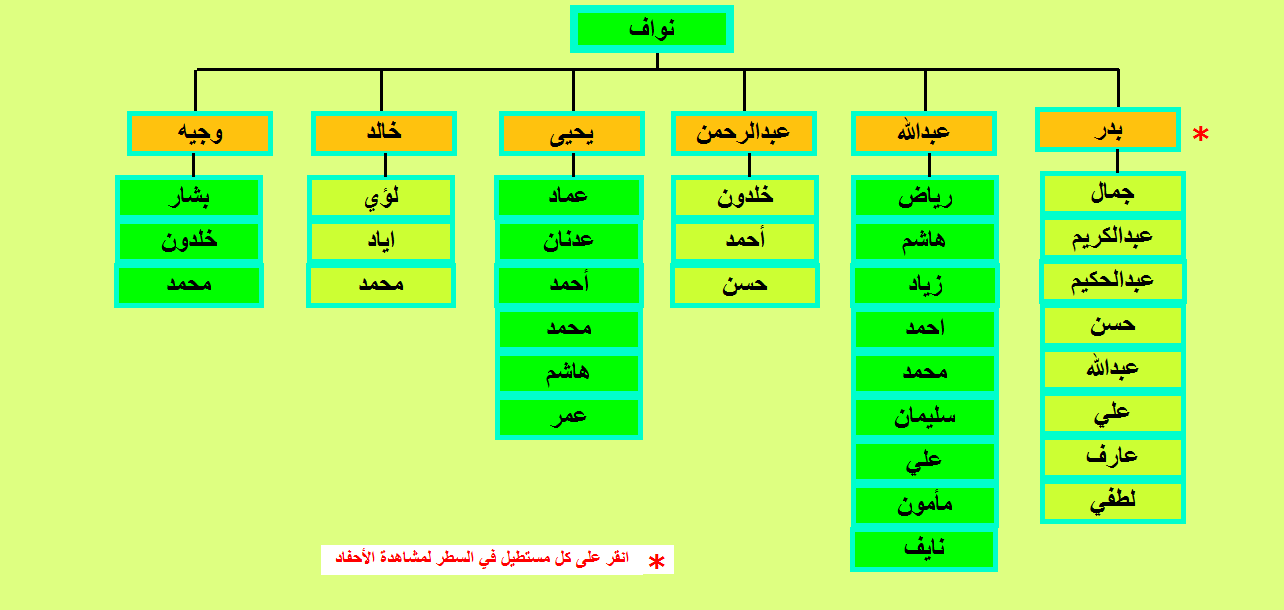
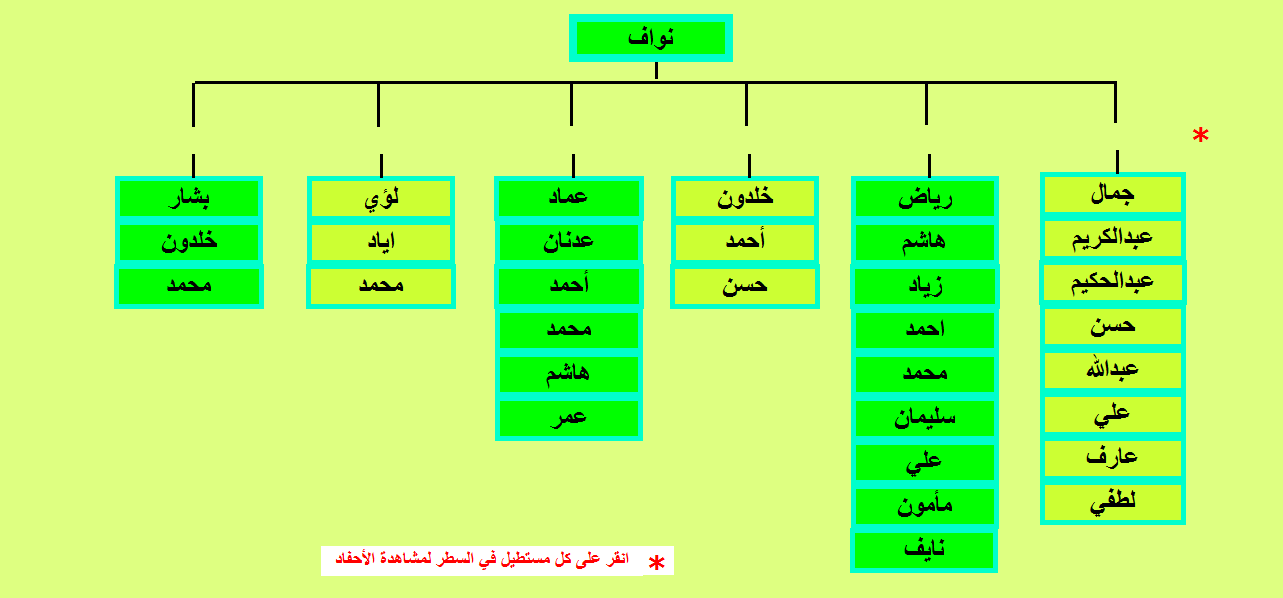
update

Changed region(s): [[0.0935, 0.0, 0.9665, 0.9632], [0.2494, 0.8729, 0.53, 0.9632]]

diff --git a/nawwaf-derweesh.html b/nawwaf-derweesh.html
@@ -3,7 +3,7 @@
 
 <head>
 <meta content="text/html; charset=utf-8" http-equiv="Content-Type" />
-<title>النسب&nbsp; العمري</title>
+<title>النسب العمري</title>
 <script type="text/javascript">
 <!--
 function FP_swapImg() {//v1.0
@@ -30,30 +30,27 @@ function FP_getObjectByID(id,o) {//v1.0
 </script>
 </head>
 
-<body onload="FP_preloadImgs(/*url*/'button843.gif',/*url*/'button844.gif',/*url*/'button845.gif',/*url*/'button846.gif',/*url*/'button847.gif',/*url*/'buttonA50.gif',/*url*/'buttonC78.gif',/*url*/'buttonD44.gif',/*url*/'button848.gif',/*url*/'button849.gif',/*url*/'button850.gif',/*url*/'button851.gif',/*url*/'button852.gif',/*url*/'button853.gif')" style="background-color: #DEFF81">
+<body onload="FP_preloadImgs(/*url*/'button860.gif',/*url*/'button861.gif',/*url*/'buttonF23.gif',/*url*/'button862.gif',/*url*/'button863.gif',/*url*/'button864.gif',/*url*/'button865.gif',/*url*/'button866.gif',/*url*/'button1E8.gif',/*url*/'button1F8.gif',/*url*/'button867.gif',/*url*/'button868.gif')" style="background-color: #DEFF81">
 
-<div id="layer1" style="position: absolute; width: 137px; height: 41px; z-index: 1; left: 1051px; top: 119px">
+<div id="layer1" style="position: absolute; width: 158px; height: 49px; z-index: 1; left: 1040px; top: 129px">
 	<a href="bader.html">
-	<img id="img1" alt="بدر" height="45" onmousedown="FP_swapImg(1,0,/*id*/'img1',/*url*/'button844.gif')" onmouseout="FP_swapImg(0,0,/*id*/'img1',/*url*/'button854.gif')" onmouseover="FP_swapImg(1,0,/*id*/'img1',/*url*/'button843.gif')" onmouseup="FP_swapImg(0,0,/*id*/'img1',/*url*/'button843.gif')" src="button854.gif" style="border: 0" width="135" /><!-- MSComment="ibutton" fp-style="fp-btn: Embossed Tab 3; fp-font-style: Bold; fp-font-size: 16; fp-transparent: 1" fp-title="بدر" --></a></div>
-<div id="layer2" style="position: absolute; width: 136px; height: 57px; z-index: 2; left: 866px; top: 123px">
+	<img id="img1" alt="بدر" height="32" onmousedown="FP_swapImg(1,0,/*id*/'img1',/*url*/'button862.gif')" onmouseout="FP_swapImg(0,0,/*id*/'img1',/*url*/'buttonE32.gif')" onmouseover="FP_swapImg(1,0,/*id*/'img1',/*url*/'buttonF23.gif')" onmouseup="FP_swapImg(0,0,/*id*/'img1',/*url*/'buttonF23.gif')" src="buttonE32.gif" style="border: 0" width="160" /><!-- MSComment="ibutton" fp-style="fp-btn: Metal Rectangle 3; fp-font-style: Bold; fp-font-size: 14; fp-transparent: 1" fp-title="بدر" --></a></div>
+<div id="layer2" style="position: absolute; width: 166px; height: 48px; z-index: 2; left: 859px; top: 131px">
 	<a href="abdallah-n-sons.html">
-	<img id="img2" alt="عبدالله" height="45" onmousedown="FP_swapImg(1,0,/*id*/'img2',/*url*/'button846.gif')" onmouseout="FP_swapImg(0,0,/*id*/'img2',/*url*/'button855.gif')" onmouseover="FP_swapImg(1,0,/*id*/'img2',/*url*/'button845.gif')" onmouseup="FP_swapImg(0,0,/*id*/'img2',/*url*/'button845.gif')" src="button855.gif" style="border: 0" width="135" /><!-- MSComment="ibutton" fp-style="fp-btn: Embossed Tab 3; fp-font-style: Bold; fp-font-size: 16; fp-transparent: 1" fp-title="عبدالله" --></a></div>
-<div id="layer3" style="position: absolute; width: 135px; height: 51px; z-index: 3; left: 688px; top: 123px">
-	<a href="abdelrahman-n-sons.html">
-	<img id="img3" alt="عبدالرحمن" height="45" onmousedown="FP_swapImg(1,0,/*id*/'img3',/*url*/'buttonA50.gif')" onmouseout="FP_swapImg(0,0,/*id*/'img3',/*url*/'button856.gif')" onmouseover="FP_swapImg(1,0,/*id*/'img3',/*url*/'button847.gif')" onmouseup="FP_swapImg(0,0,/*id*/'img3',/*url*/'button847.gif')" src="button856.gif" style="border: 0" width="135" /><!-- MSComment="ibutton" fp-style="fp-btn: Embossed Tab 3; fp-font-style: Bold; fp-font-size: 16; fp-transparent: 1" fp-title="عبدالرحمن" --></a></div>
-<div id="layer4" style="position: absolute; width: 139px; height: 57px; z-index: 4; left: 513px; top: 123px">
+	<img id="img2" alt="عبدالله" height="32" onmousedown="FP_swapImg(1,0,/*id*/'img2',/*url*/'button861.gif')" onmouseout="FP_swapImg(0,0,/*id*/'img2',/*url*/'button869.gif')" onmouseover="FP_swapImg(1,0,/*id*/'img2',/*url*/'button860.gif')" onmouseup="FP_swapImg(0,0,/*id*/'img2',/*url*/'button860.gif')" src="button869.gif" style="border: 0" width="160" /><!-- MSComment="ibutton" fp-style="fp-btn: Metal Rectangle 3; fp-font-style: Bold; fp-font-size: 14; fp-transparent: 1" fp-title="عبدالله" --></a></div>
+<div id="layer3" style="position: absolute; width: 162px; height: 49px; z-index: 3; left: 501px; top: 134px">
 	<a href="yahya-n-sons.html">
-	<img id="img4" alt="يحيى" height="45" onmousedown="FP_swapImg(1,0,/*id*/'img4',/*url*/'buttonD44.gif')" onmouseout="FP_swapImg(0,0,/*id*/'img4',/*url*/'buttonB55.gif')" onmouseover="FP_swapImg(1,0,/*id*/'img4',/*url*/'buttonC78.gif')" onmouseup="FP_swapImg(0,0,/*id*/'img4',/*url*/'buttonC78.gif')" src="buttonB55.gif" style="border: 0" width="135" /><!-- MSComment="ibutton" fp-style="fp-btn: Embossed Tab 3; fp-font-style: Bold; fp-font-size: 16; fp-transparent: 1" fp-title="يحيى" --></a></div>
-<div id="layer5" style="position: absolute; width: 140px; height: 59px; z-index: 5; left: 328px; top: 122px">
+	<img id="img3" alt="يحيى" height="32" onmousedown="FP_swapImg(1,0,/*id*/'img3',/*url*/'button864.gif')" onmouseout="FP_swapImg(0,0,/*id*/'img3',/*url*/'button870.gif')" onmouseover="FP_swapImg(1,0,/*id*/'img3',/*url*/'button863.gif')" onmouseup="FP_swapImg(0,0,/*id*/'img3',/*url*/'button863.gif')" src="button870.gif" style="border: 0" width="160" /><!-- MSComment="ibutton" fp-style="fp-btn: Metal Rectangle 3; fp-font-style: Bold; fp-font-size: 14; fp-transparent: 1" fp-title="يحيى" --></a></div>
+<div id="layer4" style="position: absolute; width: 167px; height: 46px; z-index: 4; left: 678px; top: 133px">
+	<a href="abdelrahman-n-sons.html">
+	<img id="img4" alt="عبدالرحمن" height="32" onmousedown="FP_swapImg(1,0,/*id*/'img4',/*url*/'button866.gif')" onmouseout="FP_swapImg(0,0,/*id*/'img4',/*url*/'button871.gif')" onmouseover="FP_swapImg(1,0,/*id*/'img4',/*url*/'button865.gif')" onmouseup="FP_swapImg(0,0,/*id*/'img4',/*url*/'button865.gif')" src="button871.gif" style="border: 0" width="160" /><!-- MSComment="ibutton" fp-style="fp-btn: Metal Rectangle 3; fp-font-style: Bold; fp-font-size: 14; fp-transparent: 1" fp-title="عبدالرحمن" --></a></div>
+<div id="layer5" style="position: absolute; width: 161px; height: 45px; z-index: 5; left: 316px; top: 133px">
 	<a href="khaled-n-sons.html">
-	<img id="img5" alt="خالد" height="45" onmousedown="FP_swapImg(1,0,/*id*/'img5',/*url*/'button849.gif')" onmouseout="FP_swapImg(0,0,/*id*/'img5',/*url*/'button857.gif')" onmouseover="FP_swapImg(1,0,/*id*/'img5',/*url*/'button848.gif')" onmouseup="FP_swapImg(0,0,/*id*/'img5',/*url*/'button848.gif')" src="button857.gif" style="border: 0" width="135" /><!-- MSComment="ibutton" fp-style="fp-btn: Embossed Tab 3; fp-font-style: Bold; fp-font-size: 16; fp-transparent: 1" fp-title="خالد" --></a></div>
-<div id="layer6" style="position: absolute; width: 135px; height: 49px; z-index: 6; left: 143px; top: 122px">
+	<img id="img5" alt="خالد" height="32" onmousedown="FP_swapImg(1,0,/*id*/'img5',/*url*/'button1F8.gif')" onmouseout="FP_swapImg(0,0,/*id*/'img5',/*url*/'button1D8.gif')" onmouseover="FP_swapImg(1,0,/*id*/'img5',/*url*/'button1E8.gif')" onmouseup="FP_swapImg(0,0,/*id*/'img5',/*url*/'button1E8.gif')" src="button1D8.gif" style="border: 0" width="160" /><!-- MSComment="ibutton" fp-style="fp-btn: Metal Rectangle 3; fp-font-style: Bold; fp-font-size: 14; fp-transparent: 1" fp-title="خالد" --></a></div>
+<div id="layer6" style="position: absolute; width: 160px; height: 47px; z-index: 6; left: 130px; top: 133px">
 	<a href="wajeeh-n-sons.html">
-	<img id="img6" alt="وجيه" height="45" onmousedown="FP_swapImg(1,0,/*id*/'img6',/*url*/'button851.gif')" onmouseout="FP_swapImg(0,0,/*id*/'img6',/*url*/'button858.gif')" onmouseover="FP_swapImg(1,0,/*id*/'img6',/*url*/'button850.gif')" onmouseup="FP_swapImg(0,0,/*id*/'img6',/*url*/'button850.gif')" src="button858.gif" style="border: 0" width="135" /><!-- MSComment="ibutton" fp-style="fp-btn: Embossed Tab 3; fp-font-style: Bold; fp-font-size: 16; fp-transparent: 1" fp-title="وجيه" --></a></div>
-<div id="layer7" style="position: absolute; width: 114px; height: 47px; z-index: 7; left: 23px; top: 21px">
-	<a href="index.html">
-	<img id="img7" alt="الصفحة الرئيسية" height="23" onmousedown="FP_swapImg(1,0,/*id*/'img7',/*url*/'button853.gif')" onmouseout="FP_swapImg(0,0,/*id*/'img7',/*url*/'button859.gif')" onmouseover="FP_swapImg(1,0,/*id*/'img7',/*url*/'button852.gif')" onmouseup="FP_swapImg(0,0,/*id*/'img7',/*url*/'button852.gif')" src="button859.gif" style="border: 0" width="113" /><!-- MSComment="ibutton" fp-style="fp-btn: Metal Capsule 3; fp-font-style: Bold; fp-transparent: 1" fp-title="الصفحة الرئيسية" --></a></div>
-<img alt="" height="610" src="nawwaf-derweesh.png" width="1284" />
+	<img id="img6" alt="وجيه" height="32" onmousedown="FP_swapImg(1,0,/*id*/'img6',/*url*/'button868.gif')" onmouseout="FP_swapImg(0,0,/*id*/'img6',/*url*/'button872.gif')" onmouseover="FP_swapImg(1,0,/*id*/'img6',/*url*/'button867.gif')" onmouseup="FP_swapImg(0,0,/*id*/'img6',/*url*/'button867.gif')" src="button872.gif" style="border: 0" width="160" /><!-- MSComment="ibutton" fp-style="fp-btn: Metal Rectangle 3; fp-font-style: Bold; fp-font-size: 14; fp-transparent: 1" fp-title="وجيه" --></a></div>
+<img alt="" height="598" src="nawwaf-derweesh.png" width="1283" />
 
 </body>
 
